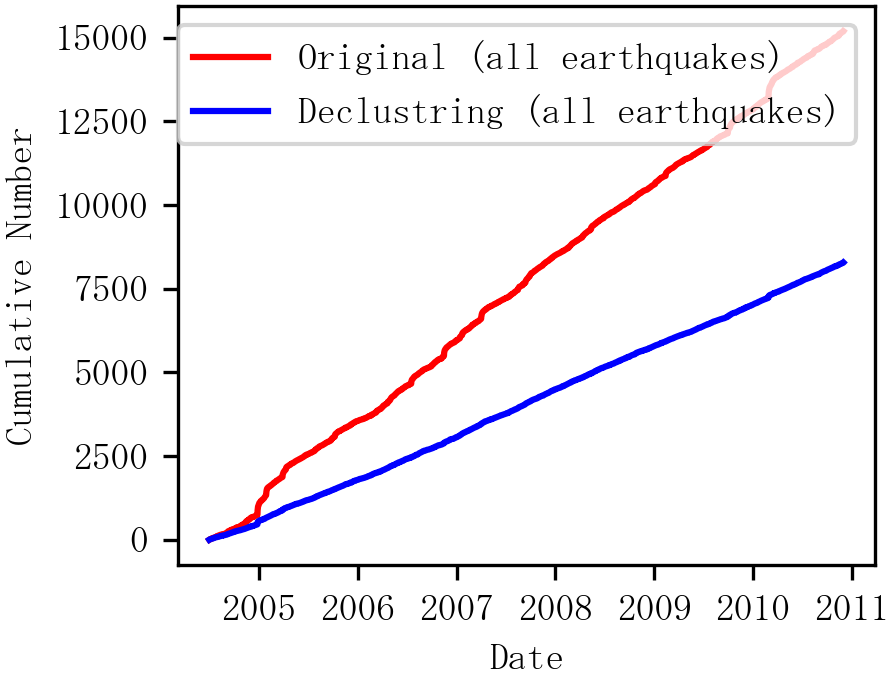
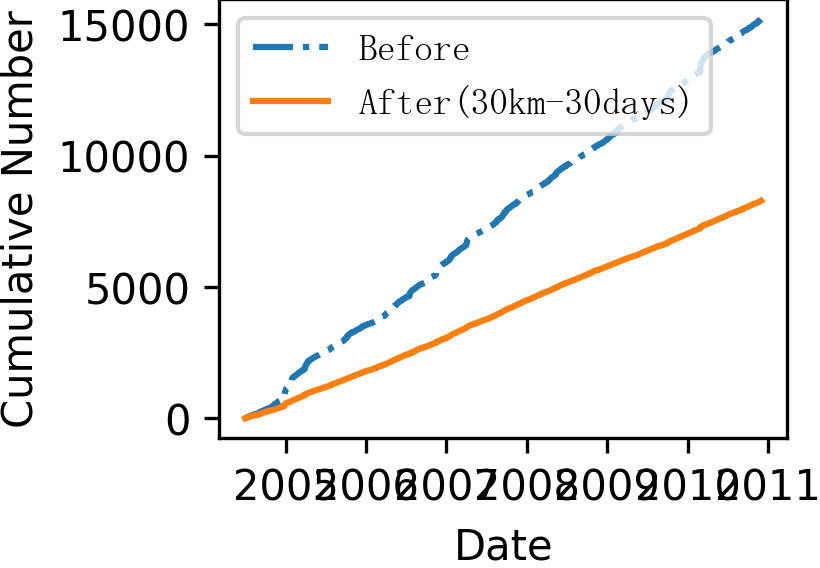
<code> fixing the plot part

diff --git a/Step00_Declustring/Code/Cumulative_Comparison.py b/Step00_Declustring/Code/Cumulative_Comparison.py
@@ -5,55 +5,49 @@ original_eq_file=r'C:\Users\nzy27\Documents\Github\DEMETER_Satellite_Data_Analys
 declustring_eq_file=r'C:\Users\nzy27\Documents\Github\DEMETER_Satellite_Data_Analysis\Step00_Declustring\Output\all_eq_declustring_30day_30km.csv'
 save_path=r'C:\Users\nzy27\Documents\Github\DEMETER_Satellite_Data_Analysis\Step00_Declustring\graphic\cumulative_cimparison_plots_30days_30km.png'
 
-def cumulative_comparison_plots(
-    original_eq_file, declustring_eq_file,
-    save_path    
-):
-
-    # データの読み取り
-    df_org = pd.read_csv(original_eq_file)
-    df_declus = pd.read_csv(declustring_eq_file)
-
-    # 時間をdatetime形に変形
-    df_org['datetime'] = pd.to_datetime(df_org[['year', 'month', 'day', 'hour', 'minute', 'second']])
-    df_declus['datetime'] = pd.to_datetime(df_declus[['year', 'month', 'day', 'hour', 'minute', 'second']])
-
-    # 時系列昇順にソートする
-    df_org = df_org.sort_values('datetime')
-    df_declus = df_declus.sort_values('datetime')
-
-    # 一応確認
-    print(f'[Info]This is sorted dataframe.Original:{df_org} Declustring:{df_declus}')
-
-    # 両dfに累積カウントの列を追加する
-    df_org['cumulative_count'] = range(1, len(df_org)+1)
-    df_declus['cumulative_count'] = range(1, len(df_declus)+1)
-
-    # プロット
-    #==================================================================================================================================
-    plt.figure(figsize=(78/25.4, 60/25.4))
-    ## フォント設定（MS明朝、黒、9pt）
-    plt.rcParams.update({
-        "font.family": "MS Mincho",
-        "font.size": 9,
-        "text.color": "black",
-    })
-
-    plt.plot(df_org['datetime'], df_org['cumulative_count'], label='Original (all earthquakes)', color='red', linewidth=1.5)
-    plt.plot(df_declus['datetime'], df_declus['cumulative_count'], label='Declustring (all earthquakes)', color='blue', linewidth=1.5)
-
-    plt.xlabel('Date')
-    plt.ylabel('Cumulative Number')
-    plt.legend()
-    plt.tight_layout(pad=0.5)
-
-    # 保存
-    plt.savefig(save_path, dpi=300, bbox_inches="tight", pad_inches=0.02)
-    plt.show()
 
 
-if __name__ == "__main__":
-    cumulative_comparison_plots(
-    original_eq_file, declustring_eq_file,
-    save_path    
-)
+# データの読み取り
+df_org = pd.read_csv(original_eq_file)
+df_declus = pd.read_csv(declustring_eq_file)
+
+# 時間をdatetime形に変形
+df_org['datetime'] = pd.to_datetime(df_org[['year', 'month', 'day', 'hour', 'minute', 'second']])
+df_declus['datetime'] = pd.to_datetime(df_declus[['year', 'month', 'day', 'hour', 'minute', 'second']])
+
+# 時系列昇順にソートする
+df_org = df_org.sort_values('datetime')
+df_declus = df_declus.sort_values('datetime')
+
+# 一応確認
+print(f'[Info]This is sorted dataframe.Original:{df_org} Declustring:{df_declus}')
+
+# 両dfに累積カウントの列を追加する
+df_org['cumulative_count'] = range(1, len(df_org)+1)
+df_declus['cumulative_count'] = range(1, len(df_declus)+1)
+
+# グラフ作成
+#==================================================================================================================================
+## グラフサイズ（幅76mm*高さ55mm）
+fig = plt.figure(figsize=(76/25.4, 55/25.4))
+## フォント設定（MS明朝、黒、9pt）
+plt.rcParams.update({
+    "font.family": "MS Mincho",
+    "font.size": 9,
+    "text.color": "black",
+})
+## プロット
+plt.plot(df_org['datetime'], df_org['cumulative_count'], label='Before', ls="-.")
+plt.plot(df_declus['datetime'], df_declus['cumulative_count'], label='After(30km-30days)')
+
+xlable = plt.xlabel('Date')
+ylable = plt.ylabel('Cumulative Number')
+leg = plt.legend(loc="best")
+leg.set_in_layout(False)
+fig.tight_layout()
+
+# 保存
+plt.savefig(save_path, dpi=300)
+plt.show()
+
+
